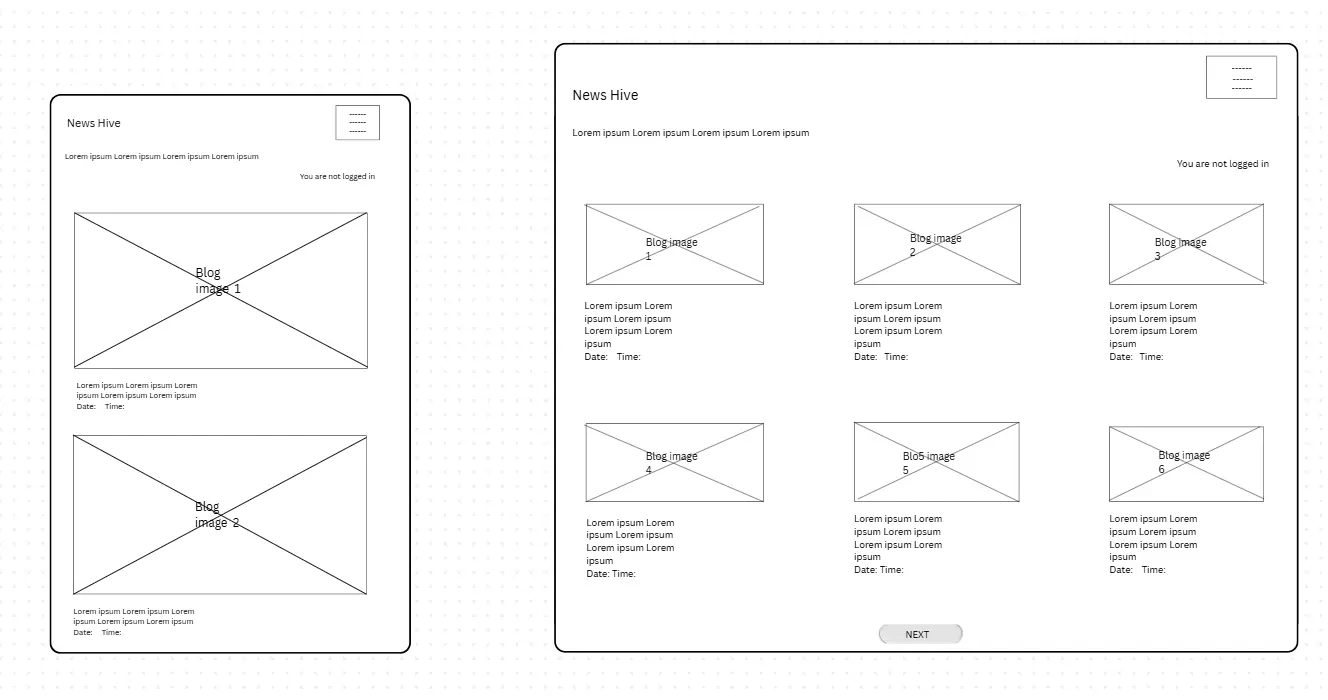
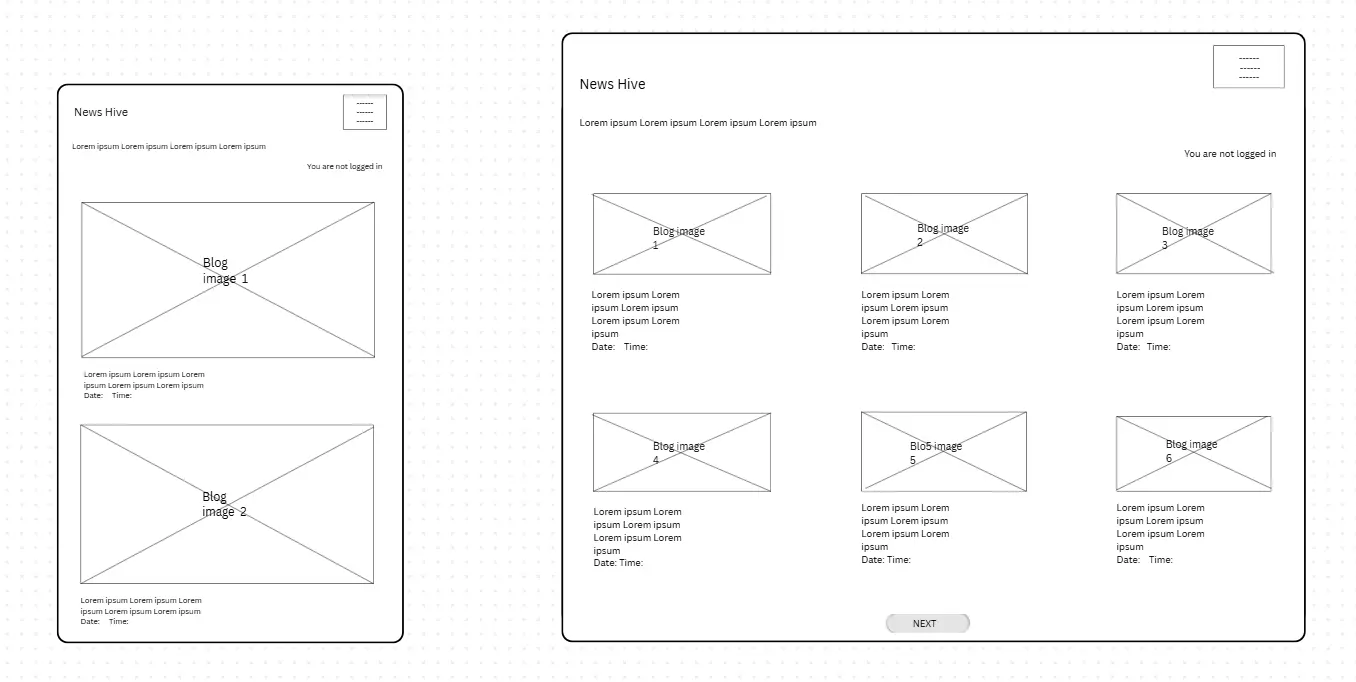
Update Testing on ReadMe

diff --git a/newshive/settings.py b/newshive/settings.py
@@ -29,7 +29,7 @@ TEMPLATES_DIR = os.path.join(BASE_DIR, 'templates')
 SECRET_KEY = os.environ.get("SECRET_KEY")
 
 # SECURITY WARNING: don't run with debug turned on in production!
-DEBUG = True
+DEBUG = False
 
 ALLOWED_HOSTS = ['.herokuapp.com',
                  '127.0.0.1', ]